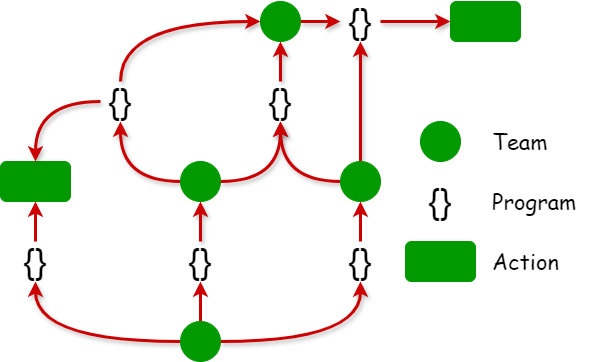
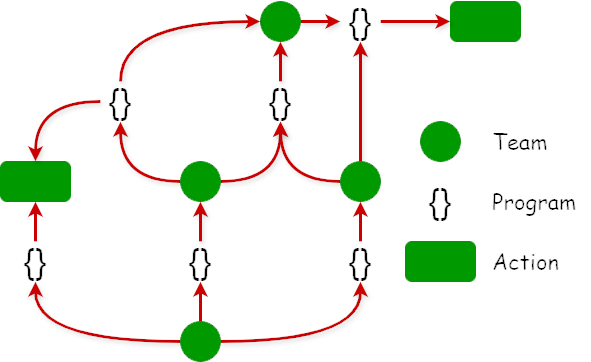
Enhance bibliography entries with 'selected' field and update project layouts for improved principal investigator handling

diff --git a/_sass/_base.scss b/_sass/_base.scss
@@ -806,6 +806,20 @@ footer.sticky-bottom {
       .preview {
       }
 
+      .abbr.preview-col {
+        display: flex;
+        flex-direction: column;
+        justify-content: center;
+        align-items: center;
+        float: none;
+        margin-top: 0;
+        text-align: center;
+
+        figure {
+          margin: 0;
+        }
+      }
+
       .abbr {
         margin-top: -15px;
         margin-bottom: 0.5rem;

diff --git a/_members/kryjak.md b/_members/kryjak.md
@@ -7,8 +7,8 @@ group_rank: 1
 team_head: true
 vis_order: -1
 
-title: PhD Tomasz Kryjak
-description: Profile of Tomasz Kryjak, Head of the Embedded Perception and Autonomous Systems Group.
+title: Tomasz Kryjak, PhD
+description: Profile of Tomasz Kryjak, Leader of the Embedded Perception and Autonomous Systems Group.
 lastname: Kryjak
 publications: "author^=*Kryjak"
 
@@ -16,13 +16,13 @@ teaser: >
   I’m an Associate Professor at the Embedded Perception and Autonomous Systems Group at the AGH University of Krakow, Poland.
 
 profile:
-  title: PhD
-  name: Tomasz Kryjak
+  title:
+  name: Tomasz Kryjak, PhD
   position: Associate Professor
-  role: Head of the Group
+  role: Leader of the Group
   align: right
   image: people/TomaszKryjak.jpg
-  email: kryjak@agh.edu.pl
+  email: tomasz.kryjak@agh.edu.pl
   linkedin: tomasz-kryjak
   orcid: 0000-0001-6798-4444
   researchgate: Tomasz_Kryjak

diff --git a/_members/mietla.md b/_members/mietla.md
@@ -1,0 +1,32 @@
+---
+layout: cv
+inline: false
+group: Doctoral researcher
+team_frontpage: false
+group_rank: 3
+vis_order: 10
+
+title: MSc Remigiusz Mietła
+description: Profile of MSc Remigiusz Mietła, Doctoral Researcher at the Embedded Perception and Autonomous Systems Group.
+lastname: Mietła
+publications: "author^=*Mietla"
+
+teaser: >
+  I am a Doctoral researcher at the Embedded Perception and Autonomous Systems Group at the AGH University of Krakow, Poland.
+
+profile:
+  title: MSc
+  name: Remigiusz Mietła
+  position:
+  role: PhD Student
+  align: right
+  image:
+  email:
+  linkedin:
+  orcid:
+  researchgate:
+  scopus:
+  googlescholar:
+  short_bio:
+  keywords:
+---

diff --git a/_members/szargut.md b/_members/szargut.md
@@ -1,0 +1,32 @@
+---
+layout: cv
+inline: false
+group: Doctoral researcher
+team_frontpage: false
+group_rank: 3
+vis_order: 11
+
+title: MSc Błażej Szargut
+description: Profile of MSc Błażej Szargut, Doctoral Researcher at the Embedded Perception and Autonomous Systems Group.
+lastname: Szargut
+publications: "author^=*Szargut"
+
+teaser: >
+  I am a Doctoral researcher at the Embedded Perception and Autonomous Systems Group at the AGH University of Krakow, Poland.
+
+profile:
+  title: MSc
+  name: Błażej Szargut
+  position:
+  role: PhD Student
+  align: right
+  image:
+  email:
+  linkedin:
+  orcid:
+  researchgate:
+  scopus:
+  googlescholar:
+  short_bio:
+  keywords:
+---

diff --git a/_projects/preludium_kryjak.md b/_projects/preludium_kryjak.md
@@ -1,0 +1,18 @@
+---
+layout: project
+title: NCN Preludium
+description:
+principal_investigator: Tomasz Kryjak, PhD
+title_en: Reconfigurable implementation of hardware modules for processing and analysis of complex video signals
+budget: 81450
+img: assets/img/projects/logo_ncn-preludium.png
+importance: 1
+category: NCN
+related_publications: true
+keywords:
+  - FPGA
+  - Video Processing
+
+start_date: 2011-12-07
+end_date: 2013-06-06
+---

diff --git a/_projects/sonata_kryjak.md b/_projects/sonata_kryjak.md
@@ -2,7 +2,7 @@
 layout: project
 title: NCN Sonata
 description:
-principal_investigator: PhD Tomasz Kryjak
+principal_investigator: Tomasz Kryjak, PhD
 img: assets/img/projects/logo_ncn-sonata.png
 importance: 1
 category: NCN
